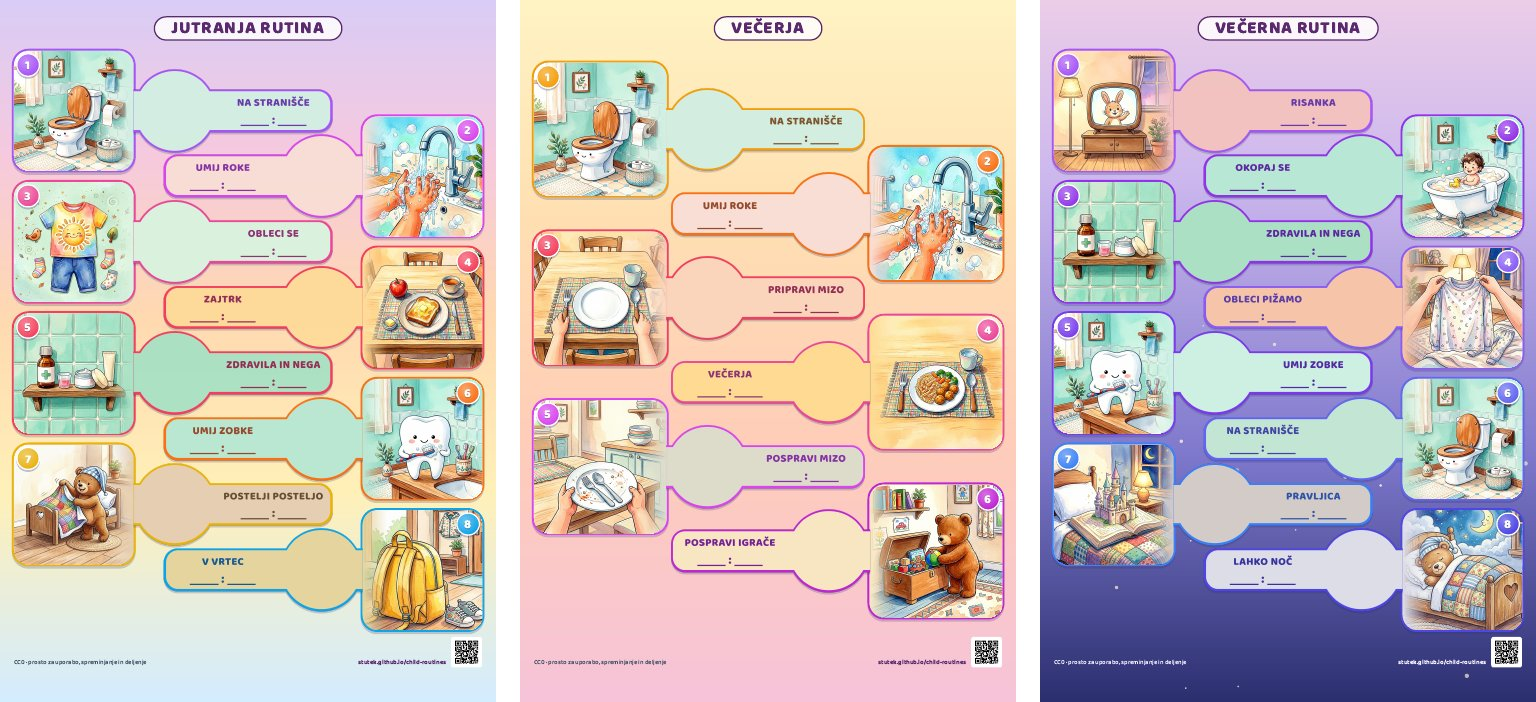
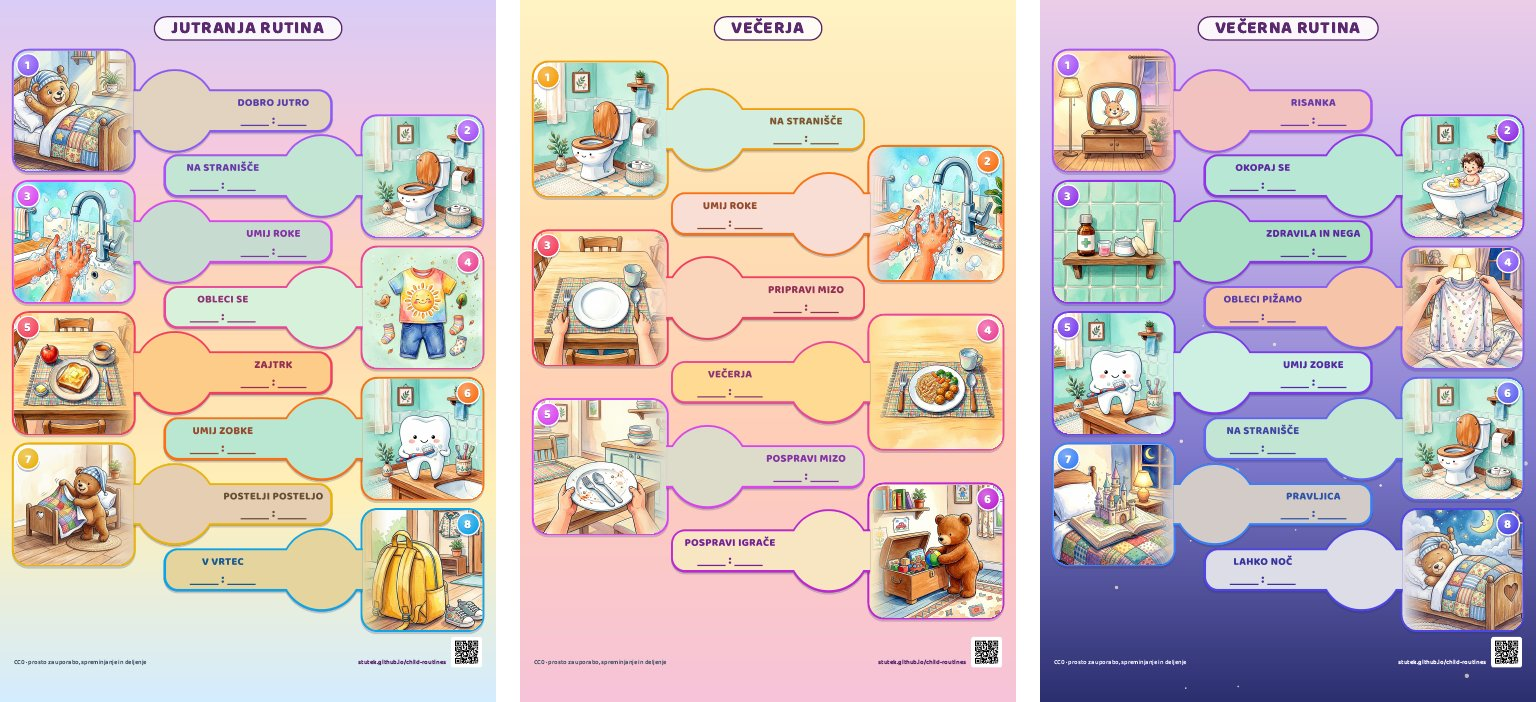
Examples: medicine and care in the evening only; the morning keeps breakfast and making the bed

Changed region(s): [[0.0, 0.0598, 0.3125, 0.6282]]

diff --git a/output/en-example.html b/output/en-example.html
@@ -250,57 +250,57 @@
   <div class="page-a4 rt-page" style="background: linear-gradient(180deg, #D9CCF6 0%, #F6C9DE 22%, #FFD9B0 45%, #FFF0B8 70%, #D3ECFF 100%); --img: 52.5mm;">
     <div class="rt-grid" style="grid-template-rows: 14mm repeat(18, minmax(0, 1fr));">
       <div class="rt-header"><div class="rt-title">MORNING ROUTINE</div></div>
-      <div class="rt-pic pic-left" style="--step: #A855F7; --bg: #D4EFE3; --ink: #6A3BAA; grid-row: 2 / span 4;">
-        <img src="../images/toilet.jpg" alt="Use the toilet" />
+      <div class="rt-pic pic-left" style="--step: #8B5CF6; --bg: #E3D4C1; --ink: #5A3FA9; grid-row: 2 / span 4;">
+        <img src="../images/good-morning.jpg" alt="Good morning" />
         <div class="rt-num">1</div>
       </div>
-      <div class="rt-card card-left" style="--step: #A855F7; --bg: #D4EFE3; --ink: #6A3BAA; grid-row: 3 / span 2;">
+      <div class="rt-card card-left" style="--step: #8B5CF6; --bg: #E3D4C1; --ink: #5A3FA9; grid-row: 3 / span 2;">
+        <div class="rt-text">
+          <div class="rt-label">GOOD MORNING</div>
+          <div class="rt-time"><span class="blank"></span>:<span class="blank"></span></div>
+        </div>
+        <div class="rt-check"></div>
+      </div>
+      <div class="rt-pic pic-right" style="--step: #A855F7; --bg: #C4E8D5; --ink: #6A3BAA; grid-row: 4 / span 4;">
+        <img src="../images/toilet.jpg" alt="Use the toilet" />
+        <div class="rt-num">2</div>
+      </div>
+      <div class="rt-card card-right" style="--step: #A855F7; --bg: #C4E8D5; --ink: #6A3BAA; grid-row: 5 / span 2;">
         <div class="rt-text">
           <div class="rt-label">USE THE TOILET</div>
           <div class="rt-time"><span class="blank"></span>:<span class="blank"></span></div>
         </div>
         <div class="rt-check"></div>
       </div>
-      <div class="rt-pic pic-right" style="--step: #D946EF; --bg: #FADFD7; --ink: #8533A5; grid-row: 4 / span 4;">
+      <div class="rt-pic pic-left" style="--step: #D946EF; --bg: #C8DDD2; --ink: #8533A5; grid-row: 6 / span 4;">
         <img src="../images/wash-hands.jpg" alt="Wash hands" />
-        <div class="rt-num">2</div>
+        <div class="rt-num">3</div>
       </div>
-      <div class="rt-card card-right" style="--step: #D946EF; --bg: #FADFD7; --ink: #8533A5; grid-row: 5 / span 2;">
+      <div class="rt-card card-left" style="--step: #D946EF; --bg: #C8DDD2; --ink: #8533A5; grid-row: 7 / span 2;">
         <div class="rt-text">
           <div class="rt-label">WASH HANDS</div>
           <div class="rt-time"><span class="blank"></span>:<span class="blank"></span></div>
         </div>
         <div class="rt-check"></div>
       </div>
-      <div class="rt-pic pic-left" style="--step: #EC4899; --bg: #DBF4DF; --ink: #8F3476; grid-row: 6 / span 4;">
+      <div class="rt-pic pic-right" style="--step: #EC4899; --bg: #D9F3DD; --ink: #8F3476; grid-row: 8 / span 4;">
         <img src="../images/getting-dressed.jpg" alt="Get dressed" />
-        <div class="rt-num">3</div>
+        <div class="rt-num">4</div>
       </div>
-      <div class="rt-card card-left" style="--step: #EC4899; --bg: #DBF4DF; --ink: #8F3476; grid-row: 7 / span 2;">
+      <div class="rt-card card-right" style="--step: #EC4899; --bg: #D9F3DD; --ink: #8F3476; grid-row: 9 / span 2;">
         <div class="rt-text">
           <div class="rt-label">GET DRESSED</div>
           <div class="rt-time"><span class="blank"></span>:<span class="blank"></span></div>
         </div>
         <div class="rt-check"></div>
       </div>
-      <div class="rt-pic pic-right" style="--step: #F43F5E; --bg: #FFDC9B; --ink: #942F55; grid-row: 8 / span 4;">
+      <div class="rt-pic pic-left" style="--step: #F43F5E; --bg: #FECD89; --ink: #942F55; grid-row: 10 / span 4;">
         <img src="../images/breakfast.jpg" alt="Breakfast" />
-        <div class="rt-num">4</div>
-      </div>
-      <div class="rt-card card-right" style="--step: #F43F5E; --bg: #FFDC9B; --ink: #942F55; grid-row: 9 / span 2;">
-        <div class="rt-text">
-          <div class="rt-label">BREAKFAST</div>
-          <div class="rt-time"><span class="blank"></span>:<span class="blank"></span></div>
-        </div>
-        <div class="rt-check"></div>
-      </div>
-      <div class="rt-pic pic-left" style="--step: #F43F5E; --bg: #ADE2C5; --ink: #942F55; grid-row: 10 / span 4;">
-        <img src="../images/care.jpg" alt="Medicine &amp; cream" />
         <div class="rt-num">5</div>
       </div>
-      <div class="rt-card card-left" style="--step: #F43F5E; --bg: #ADE2C5; --ink: #942F55; grid-row: 11 / span 2;">
+      <div class="rt-card card-left" style="--step: #F43F5E; --bg: #FECD89; --ink: #942F55; grid-row: 11 / span 2;">
         <div class="rt-text">
-          <div class="rt-label">MEDICINE &amp; CREAM</div>
+          <div class="rt-label">BREAKFAST</div>
           <div class="rt-time"><span class="blank"></span>:<span class="blank"></span></div>
         </div>
         <div class="rt-check"></div>

diff --git a/output/sl-primer.html b/output/sl-primer.html
@@ -250,57 +250,57 @@
   <div class="page-a4 rt-page" style="background: linear-gradient(180deg, #D9CCF6 0%, #F6C9DE 22%, #FFD9B0 45%, #FFF0B8 70%, #D3ECFF 100%); --img: 52.5mm;">
     <div class="rt-grid" style="grid-template-rows: 14mm repeat(18, minmax(0, 1fr));">
       <div class="rt-header"><div class="rt-title">JUTRANJA RUTINA</div></div>
-      <div class="rt-pic pic-left" style="--step: #A855F7; --bg: #D4EFE3; --ink: #6A3BAA; grid-row: 2 / span 4;">
-        <img src="../images/toilet.jpg" alt="Na stranišče" />
+      <div class="rt-pic pic-left" style="--step: #8B5CF6; --bg: #E3D4C1; --ink: #5A3FA9; grid-row: 2 / span 4;">
+        <img src="../images/good-morning.jpg" alt="Dobro jutro" />
         <div class="rt-num">1</div>
       </div>
-      <div class="rt-card card-left" style="--step: #A855F7; --bg: #D4EFE3; --ink: #6A3BAA; grid-row: 3 / span 2;">
+      <div class="rt-card card-left" style="--step: #8B5CF6; --bg: #E3D4C1; --ink: #5A3FA9; grid-row: 3 / span 2;">
+        <div class="rt-text">
+          <div class="rt-label">DOBRO JUTRO</div>
+          <div class="rt-time"><span class="blank"></span>:<span class="blank"></span></div>
+        </div>
+        <div class="rt-check"></div>
+      </div>
+      <div class="rt-pic pic-right" style="--step: #A855F7; --bg: #C4E8D5; --ink: #6A3BAA; grid-row: 4 / span 4;">
+        <img src="../images/toilet.jpg" alt="Na stranišče" />
+        <div class="rt-num">2</div>
+      </div>
+      <div class="rt-card card-right" style="--step: #A855F7; --bg: #C4E8D5; --ink: #6A3BAA; grid-row: 5 / span 2;">
         <div class="rt-text">
           <div class="rt-label">NA STRANIŠČE</div>
           <div class="rt-time"><span class="blank"></span>:<span class="blank"></span></div>
         </div>
         <div class="rt-check"></div>
       </div>
-      <div class="rt-pic pic-right" style="--step: #D946EF; --bg: #FADFD7; --ink: #8533A5; grid-row: 4 / span 4;">
+      <div class="rt-pic pic-left" style="--step: #D946EF; --bg: #C8DDD2; --ink: #8533A5; grid-row: 6 / span 4;">
         <img src="../images/wash-hands.jpg" alt="Umij roke" />
-        <div class="rt-num">2</div>
+        <div class="rt-num">3</div>
       </div>
-      <div class="rt-card card-right" style="--step: #D946EF; --bg: #FADFD7; --ink: #8533A5; grid-row: 5 / span 2;">
+      <div class="rt-card card-left" style="--step: #D946EF; --bg: #C8DDD2; --ink: #8533A5; grid-row: 7 / span 2;">
         <div class="rt-text">
           <div class="rt-label">UMIJ ROKE</div>
           <div class="rt-time"><span class="blank"></span>:<span class="blank"></span></div>
         </div>
         <div class="rt-check"></div>
       </div>
-      <div class="rt-pic pic-left" style="--step: #EC4899; --bg: #DBF4DF; --ink: #8F3476; grid-row: 6 / span 4;">
+      <div class="rt-pic pic-right" style="--step: #EC4899; --bg: #D9F3DD; --ink: #8F3476; grid-row: 8 / span 4;">
         <img src="../images/getting-dressed.jpg" alt="Obleci se" />
-        <div class="rt-num">3</div>
+        <div class="rt-num">4</div>
       </div>
-      <div class="rt-card card-left" style="--step: #EC4899; --bg: #DBF4DF; --ink: #8F3476; grid-row: 7 / span 2;">
+      <div class="rt-card card-right" style="--step: #EC4899; --bg: #D9F3DD; --ink: #8F3476; grid-row: 9 / span 2;">
         <div class="rt-text">
           <div class="rt-label">OBLECI SE</div>
           <div class="rt-time"><span class="blank"></span>:<span class="blank"></span></div>
         </div>
         <div class="rt-check"></div>
       </div>
-      <div class="rt-pic pic-right" style="--step: #F43F5E; --bg: #FFDC9B; --ink: #942F55; grid-row: 8 / span 4;">
+      <div class="rt-pic pic-left" style="--step: #F43F5E; --bg: #FECD89; --ink: #942F55; grid-row: 10 / span 4;">
         <img src="../images/breakfast.jpg" alt="Zajtrk" />
-        <div class="rt-num">4</div>
-      </div>
-      <div class="rt-card card-right" style="--step: #F43F5E; --bg: #FFDC9B; --ink: #942F55; grid-row: 9 / span 2;">
-        <div class="rt-text">
-          <div class="rt-label">ZAJTRK</div>
-          <div class="rt-time"><span class="blank"></span>:<span class="blank"></span></div>
-        </div>
-        <div class="rt-check"></div>
-      </div>
-      <div class="rt-pic pic-left" style="--step: #F43F5E; --bg: #ADE2C5; --ink: #942F55; grid-row: 10 / span 4;">
-        <img src="../images/care.jpg" alt="Zdravila in nega" />
         <div class="rt-num">5</div>
       </div>
-      <div class="rt-card card-left" style="--step: #F43F5E; --bg: #ADE2C5; --ink: #942F55; grid-row: 11 / span 2;">
+      <div class="rt-card card-left" style="--step: #F43F5E; --bg: #FECD89; --ink: #942F55; grid-row: 11 / span 2;">
         <div class="rt-text">
-          <div class="rt-label">ZDRAVILA IN NEGA</div>
+          <div class="rt-label">ZAJTRK</div>
           <div class="rt-time"><span class="blank"></span>:<span class="blank"></span></div>
         </div>
         <div class="rt-check"></div>

diff --git a/web/data.js b/web/data.js
@@ -469,6 +469,11 @@ window.SHEET_DATA = {
      "stars": false,
      "steps": [
       {
+       "label": "GOOD MORNING",
+       "image": "good-morning",
+       "color": "#8B5CF6"
+      },
+      {
        "label": "USE THE TOILET",
        "image": "toilet",
        "color": "#A855F7"
@@ -486,11 +491,6 @@ window.SHEET_DATA = {
       {
        "label": "BREAKFAST",
        "image": "breakfast",
-       "color": "#F43F5E"
-      },
-      {
-       "label": "MEDICINE & CREAM",
-       "image": "care",
        "color": "#F43F5E"
       },
       {
@@ -606,6 +606,11 @@ window.SHEET_DATA = {
      "stars": false,
      "steps": [
       {
+       "label": "DOBRO JUTRO",
+       "image": "good-morning",
+       "color": "#8B5CF6"
+      },
+      {
        "label": "NA STRANIŠČE",
        "image": "toilet",
        "color": "#A855F7"
@@ -623,11 +628,6 @@ window.SHEET_DATA = {
       {
        "label": "ZAJTRK",
        "image": "breakfast",
-       "color": "#F43F5E"
-      },
-      {
-       "label": "ZDRAVILA IN NEGA",
-       "image": "care",
        "color": "#F43F5E"
       },
       {

diff --git a/images/README.md b/images/README.md
@@ -5,14 +5,14 @@ Generated by `tools/build.py` from `images/<id>.json`; do not edit by hand. To a
 | Picture | Id | Title | Keywords | Used in |
 | --- | --- | --- | --- | --- |
 | <img src="bath.jpg" width="120" alt="Toddler in a bubble bath in the same bathroom"> | `bath` | Toddler in a bubble bath in the same bathroom | sl: kopanj*, kopel*, kopaj*, kad, tus*, okopaj*<br>en: bath*, shower | en-example: EVENING ROUTINE 2<br>sl-primer: VEČERNA RUTINA 2<br>sl-vsakdan: SPANJE 1 |
-| <img src="breakfast.jpg" width="120" alt="Toast with butter, an apple and a cup of tea on the kitchen table"> | `breakfast` | Toast with butter, an apple and a cup of tea on the kitchen table | sl: zajtrk*, opecen*, toast, kruh*, jabolk*, caj, malic*<br>en: breakfast, toast, bread, apple, tea, snack | en-example: MORNING ROUTINE 4<br>sl-primer: JUTRANJA RUTINA 4 |
+| <img src="breakfast.jpg" width="120" alt="Toast with butter, an apple and a cup of tea on the kitchen table"> | `breakfast` | Toast with butter, an apple and a cup of tea on the kitchen table | sl: zajtrk*, opecen*, toast, kruh*, jabolk*, caj, malic*<br>en: breakfast, toast, bread, apple, tea, snack | en-example: MORNING ROUTINE 5<br>sl-primer: JUTRANJA RUTINA 5 |
 | <img src="brush-teeth.jpg" width="120" alt="Tooth character brushing at the bathroom sink"> | `brush-teeth` | Tooth character brushing at the bathroom sink | sl: zob*, scetk*, krtack*<br>en: teeth, tooth*, brush teeth, brush your teeth | en-example: MORNING ROUTINE 6<br>en-example: EVENING ROUTINE 5<br>sl-primer: JUTRANJA RUTINA 6<br>sl-primer: VEČERNA RUTINA 5<br>sl-vsakdan: JUTRANJA RUTINA 6<br>sl-vsakdan: SPANJE 4 |
-| <img src="care.jpg" width="120" alt="Medicine bottle with a green cross, syrup cup, cream jar and tube on a bathroom shelf"> | `care` | Medicine bottle with a green cross, syrup cup, cream jar and tube on a bathroom shelf | sl: zdravil*, sirup*, vitamin*, kapljic*, krem*, mazil*, nega, negovaln*, namaz*, maz*<br>en: medicine*, medication, syrup, vitamin*, drops, cream*, lotion, ointment, skin care | en-example: MORNING ROUTINE 5<br>en-example: EVENING ROUTINE 3<br>sl-primer: JUTRANJA RUTINA 5<br>sl-primer: VEČERNA RUTINA 3<br>sl-vsakdan: JUTRANJA RUTINA 5<br>sl-vsakdan: SPANJE 2 |
+| <img src="care.jpg" width="120" alt="Medicine bottle with a green cross, syrup cup, cream jar and tube on a bathroom shelf"> | `care` | Medicine bottle with a green cross, syrup cup, cream jar and tube on a bathroom shelf | sl: zdravil*, sirup*, vitamin*, kapljic*, krem*, mazil*, nega, negovaln*, namaz*, maz*<br>en: medicine*, medication, syrup, vitamin*, drops, cream*, lotion, ointment, skin care | en-example: EVENING ROUTINE 3<br>sl-primer: VEČERNA RUTINA 3<br>sl-vsakdan: JUTRANJA RUTINA 5<br>sl-vsakdan: SPANJE 2 |
 | <img src="cartoon.jpg" width="120" alt="Wooden TV with a waving bunny cartoon, lamp, flowering plant and window"> | `cartoon` | Wooden TV with a waving bunny cartoon, lamp, flowering plant and window | sl: risank*, tv, televizij*, ekran*, film*<br>en: cartoon*, tv, television, screen time, show | en-example: EVENING ROUTINE 1<br>sl-primer: VEČERNA RUTINA 1<br>sl-vsakdan: SPANJE 5 |
 | <img src="clear-table.jpg" width="120" alt="Child&#x27;s hands carrying a used plate from the table"> | `clear-table` | Child's hands carrying a used plate from the table | sl: pospravi mizo, pospravljanje mize, odnesi krozni*<br>en: clear the table, clear table, clear up the table | en-example: DINNER 5<br>sl-primer: VEČERJA 5<br>sl-vsakdan: VEČERJA 5 |
 | <img src="dinner.jpg" width="120" alt="Plate of pasta, meatballs, carrots and broccoli on the set-table placemat"> | `dinner` | Plate of pasta, meatballs, carrots and broccoli on the set-table placemat | sl: vecerj*, jej, jemo, jest, obed*, kosil*, hrana<br>en: dinner, eat*, meal, supper, lunch | en-example: DINNER 4<br>sl-primer: VEČERJA 4<br>sl-vsakdan: VEČERJA 4 |
-| <img src="getting-dressed.jpg" width="120" alt="T-shirt with a sun, trousers and socks"> | `getting-dressed` | T-shirt with a sun, trousers and socks | sl: oblac*, obleci, obleka, obuj*, oblec*<br>en: get dressed, getting dressed, dress*, clothes | en-example: MORNING ROUTINE 3<br>sl-primer: JUTRANJA RUTINA 3<br>sl-vsakdan: JUTRANJA RUTINA 7 |
-| <img src="good-morning.jpg" width="120" alt="Teddy bear waking up in bed, eyes wide open, stretching in the morning sun"> | `good-morning` | Teddy bear waking up in bed, eyes wide open, stretching in the morning sun | sl: dobro jutro, jutro, bujenje, zbujanje, zbudi*, vstajanje, vstani, prebuj*<br>en: good morning, wake up, waking up, get up, morning | sl-vsakdan: JUTRANJA RUTINA 1 |
+| <img src="getting-dressed.jpg" width="120" alt="T-shirt with a sun, trousers and socks"> | `getting-dressed` | T-shirt with a sun, trousers and socks | sl: oblac*, obleci, obleka, obuj*, oblec*<br>en: get dressed, getting dressed, dress*, clothes | en-example: MORNING ROUTINE 4<br>sl-primer: JUTRANJA RUTINA 4<br>sl-vsakdan: JUTRANJA RUTINA 7 |
+| <img src="good-morning.jpg" width="120" alt="Teddy bear waking up in bed, eyes wide open, stretching in the morning sun"> | `good-morning` | Teddy bear waking up in bed, eyes wide open, stretching in the morning sun | sl: dobro jutro, jutro, bujenje, zbujanje, zbudi*, vstajanje, vstani, prebuj*<br>en: good morning, wake up, waking up, get up, morning | en-example: MORNING ROUTINE 1<br>sl-primer: JUTRANJA RUTINA 1<br>sl-vsakdan: JUTRANJA RUTINA 1 |
 | <img src="kindergarten.jpg" width="120" alt="Yellow backpack with straps and sneakers by the door"> | `kindergarten` | Yellow backpack with straps and sneakers by the door | sl: vrtec, vrtc*, sola, solo, v solo, odhod, gremo ven<br>en: kindergarten, preschool, nursery, daycare, school, leave | en-example: MORNING ROUTINE 8<br>sl-primer: JUTRANJA RUTINA 8<br>sl-vsakdan: JUTRANJA RUTINA 8 |
 | <img src="make-bed.jpg" width="120" alt="Teddy bear standing beside its bed, raising the quilt to make the bed"> | `make-bed` | Teddy bear standing beside its bed, raising the quilt to make the bed | sl: postelj*, postilj*, postlj*<br>en: make the bed, make bed, make your bed, making the bed | en-example: MORNING ROUTINE 7<br>sl-primer: JUTRANJA RUTINA 7<br>sl-vsakdan: JUTRANJA RUTINA 2 |
 | <img src="pajamas.jpg" width="120" alt="Child&#x27;s hands holding up a soft pajama top with moons and stars, pants on the bed"> | `pajamas` | Child's hands holding up a soft pajama top with moons and stars, pants on the bed | sl: pizam*, obleci pizamo, spalna srajc*, oblecem pizamo<br>en: pajama*, pyjama*, pjs, nightwear | en-example: EVENING ROUTINE 4<br>sl-primer: VEČERNA RUTINA 4<br>sl-vsakdan: SPANJE 3 |
@@ -20,5 +20,5 @@ Generated by `tools/build.py` from `images/<id>.json`; do not edit by hand. To a
 | <img src="sleep.jpg" width="120" alt="Teddy bear lying asleep in bed under a night sky"> | `sleep` | Teddy bear lying asleep in bed under a night sky | sl: spanj*, spat*, spi, zaspi*, lahko noc, v posteljo, pocitek<br>en: sleep*, go to bed, good night, lights out, nap | en-example: EVENING ROUTINE 8<br>sl-primer: VEČERNA RUTINA 8<br>sl-vsakdan: SPANJE 8 |
 | <img src="story.jpg" width="120" alt="Open storybook on a bed with a pop-up castle"> | `story` | Open storybook on a bed with a pop-up castle | sl: pravljic*, zgodb*, knjig*, beri*, branje, prebere*<br>en: story, stories, book*, read* | en-example: EVENING ROUTINE 7<br>sl-primer: VEČERNA RUTINA 7<br>sl-vsakdan: SPANJE 7 |
 | <img src="tidy-toys.jpg" width="120" alt="Teddy bear putting the last ball into a full toy chest"> | `tidy-toys` | Teddy bear putting the last ball into a full toy chest | sl: igrac*, igrack*, skrinj*<br>en: toys, tidy up, tidy*, clean up, put away toys | en-example: DINNER 6<br>sl-primer: VEČERJA 6<br>sl-vsakdan: VEČERJA 6 |
-| <img src="toilet.jpg" width="120" alt="Friendly toilet in a cozy bathroom"> | `toilet` | Friendly toilet in a cozy bathroom | sl: lula*, stranisc*, wc, kahlic*, kakanj*, kakat*, potreb*, kopalnic*<br>en: toilet, potty, pee, wee, bathroom, loo | en-example: MORNING ROUTINE 1<br>en-example: DINNER 1<br>en-example: EVENING ROUTINE 6<br>sl-primer: JUTRANJA RUTINA 1<br>sl-primer: VEČERJA 1<br>sl-primer: VEČERNA RUTINA 6<br>sl-vsakdan: JUTRANJA RUTINA 3<br>sl-vsakdan: VEČERJA 1<br>sl-vsakdan: SPANJE 6 |
-| <img src="wash-hands.jpg" width="120" alt="Child&#x27;s hands washing under a tap with soap bubbles"> | `wash-hands` | Child's hands washing under a tap with soap bubbles | sl: roke, rok, umivanje rok, umij roke, milo<br>en: wash hands, hands, hand washing, handwashing, soap | en-example: MORNING ROUTINE 2<br>en-example: DINNER 2<br>sl-primer: JUTRANJA RUTINA 2<br>sl-primer: VEČERJA 2<br>sl-vsakdan: JUTRANJA RUTINA 4<br>sl-vsakdan: VEČERJA 2 |
+| <img src="toilet.jpg" width="120" alt="Friendly toilet in a cozy bathroom"> | `toilet` | Friendly toilet in a cozy bathroom | sl: lula*, stranisc*, wc, kahlic*, kakanj*, kakat*, potreb*, kopalnic*<br>en: toilet, potty, pee, wee, bathroom, loo | en-example: MORNING ROUTINE 2<br>en-example: DINNER 1<br>en-example: EVENING ROUTINE 6<br>sl-primer: JUTRANJA RUTINA 2<br>sl-primer: VEČERJA 1<br>sl-primer: VEČERNA RUTINA 6<br>sl-vsakdan: JUTRANJA RUTINA 3<br>sl-vsakdan: VEČERJA 1<br>sl-vsakdan: SPANJE 6 |
+| <img src="wash-hands.jpg" width="120" alt="Child&#x27;s hands washing under a tap with soap bubbles"> | `wash-hands` | Child's hands washing under a tap with soap bubbles | sl: roke, rok, umivanje rok, umij roke, milo<br>en: wash hands, hands, hand washing, handwashing, soap | en-example: MORNING ROUTINE 3<br>en-example: DINNER 2<br>sl-primer: JUTRANJA RUTINA 3<br>sl-primer: VEČERJA 2<br>sl-vsakdan: JUTRANJA RUTINA 4<br>sl-vsakdan: VEČERJA 2 |

diff --git a/AGENTS.sl.md b/AGENTS.sl.md
@@ -55,6 +55,6 @@ Spremembo preveri vizualno: datoteko iz `output/` z brezglavim Chromom natisni v
 - Repozitorij je samozadosten: vse, kar agent potrebuje (pravila, veščine, orodja), je v njem, in nič se ne sklicuje na datoteke zunaj njega. `CLAUDE.md` in `GEMINI.md` le uvozita to datoteko (angleško različico).
 - Nikoli ne oslabi vrat za avtorske pravice (`.github/workflows/copyright-gate.yml`): ostati morajo na `pull_request_target`, ne smejo prevzeti ali pognati kode iz zahteve in morajo ob napaki zavrniti.
 - Ko starš sestavlja rutino za svojega otroka, otrokovega imena in drugih osebnih podatkov ne daj v commit ali zahtevo za združitev.
-- Primera (`routines/sl/primer.json`, `routines/en/example.json`; izdelovalnik ju naloži) kažeta dobre navade, npr. zaslon vsaj uro pred spanjem (KidsHealth), umite roke pred obrokom, zobje po zadnjem obroku; vključujeta zdravila in nego, v podporo družinam, ki jih potrebujejo. `routines/sl/vsakdan.json` je družinska rutina vzdrževalca; pusti jo, kot je.
+- Primera (`routines/sl/primer.json`, `routines/en/example.json`; izdelovalnik ju naloži) kažeta dobre navade, npr. zaslon vsaj uro pred spanjem (KidsHealth), umite roke pred obrokom, zobje po zadnjem obroku; večer vključuje zdravila in nego, v podporo družinam, ki jih potrebujejo. `routines/sl/vsakdan.json` je družinska rutina vzdrževalca; pusti jo, kot je.
 - `README`, `CONTRIBUTING` in `AGENTS` drži usklajene v angleščini in slovenščini (`*.sl.md`).
 - Magnetki: priporoči 35 mm ali več, vdelane v plastiko; ameriški valj za majhne dele meri 31,7 mm (CPSC 16 CFR 1501). Več pogoltnjenih magnetov se privlači skozi črevesje.

diff --git a/AGENTS.md b/AGENTS.md
@@ -55,6 +55,6 @@ Check a change visually: print the output file to PDF with headless Chrome and l
 - This repository is self-contained: everything an agent needs (rules, skills, tools) is in it, and nothing refers to files outside it. `CLAUDE.md` and `GEMINI.md` only import this file.
 - Never weaken the copyright gate (`.github/workflows/copyright-gate.yml`): it must stay on `pull_request_target`, must not check out or run pull request code, and must fail closed.
 - When a parent makes a routine for their own child, keep the child's name and other personal details out of commits and pull requests.
-- The examples (`routines/sl/primer.json`, `routines/en/example.json`; the sheet maker loads them) model good habits, e.g. screens at least an hour before sleep (KidsHealth), hands washed before meals, teeth after the last meal; they include medicine and care, to support families who need it. `routines/sl/vsakdan.json` is the maintainer's own family routine; leave it as it is.
+- The examples (`routines/sl/primer.json`, `routines/en/example.json`; the sheet maker loads them) model good habits, e.g. screens at least an hour before sleep (KidsHealth), hands washed before meals, teeth after the last meal; the evening includes medicine and care, to support families who need it. `routines/sl/vsakdan.json` is the maintainer's own family routine; leave it as it is.
 - Keep `README`, `CONTRIBUTING` and `AGENTS` in English and Slovenian in sync (`*.sl.md`).
 - Magnets: recommend 35 mm or more, set in plastic; the US small-parts cylinder is 31.7 mm wide (CPSC 16 CFR 1501). Several swallowed magnets attract each other through the intestines.
